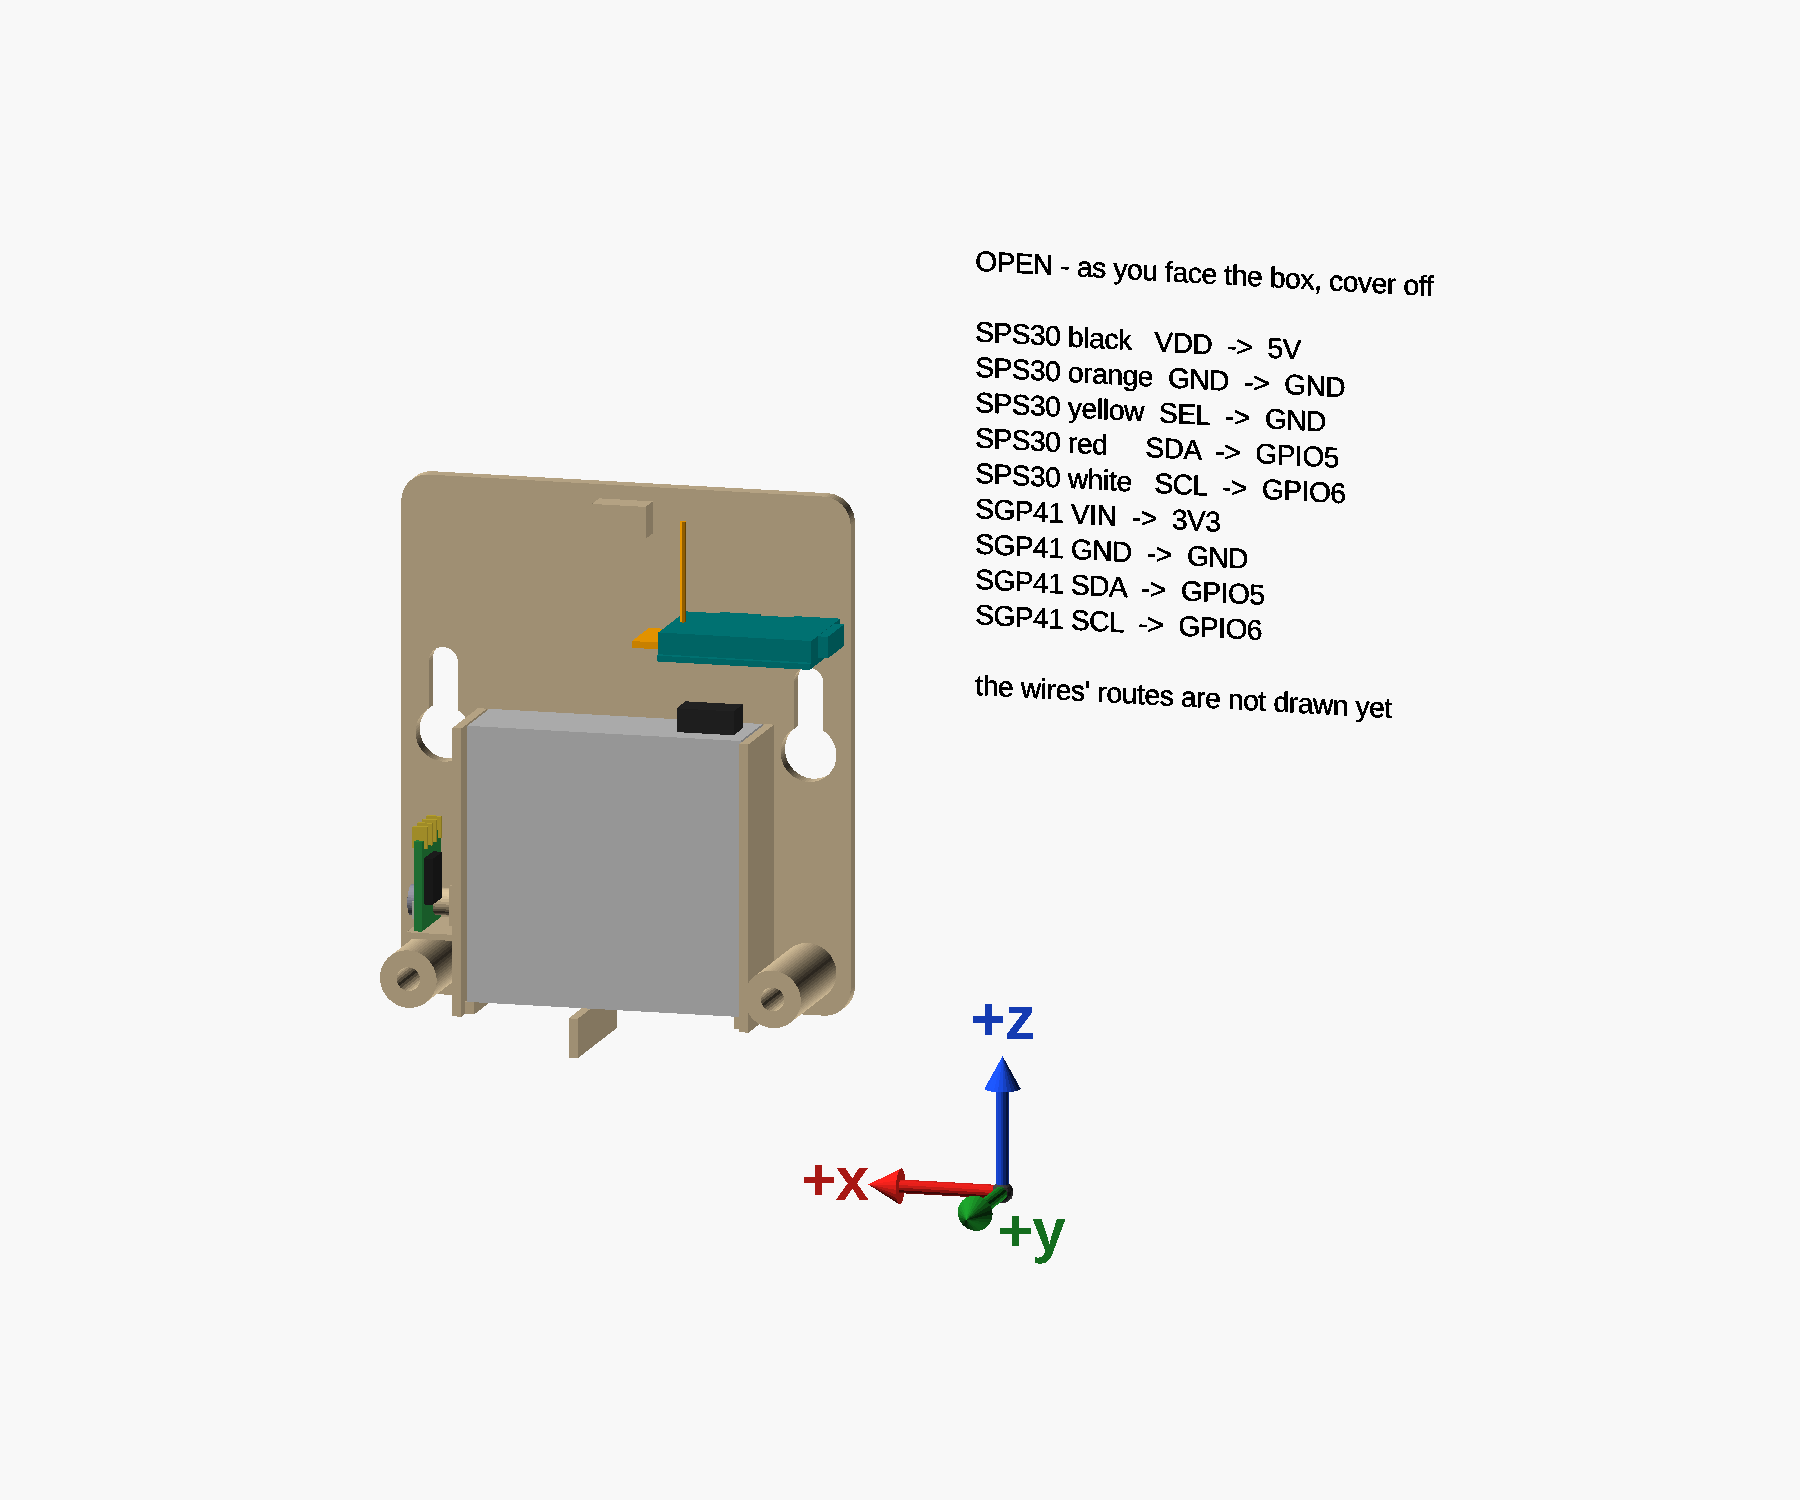
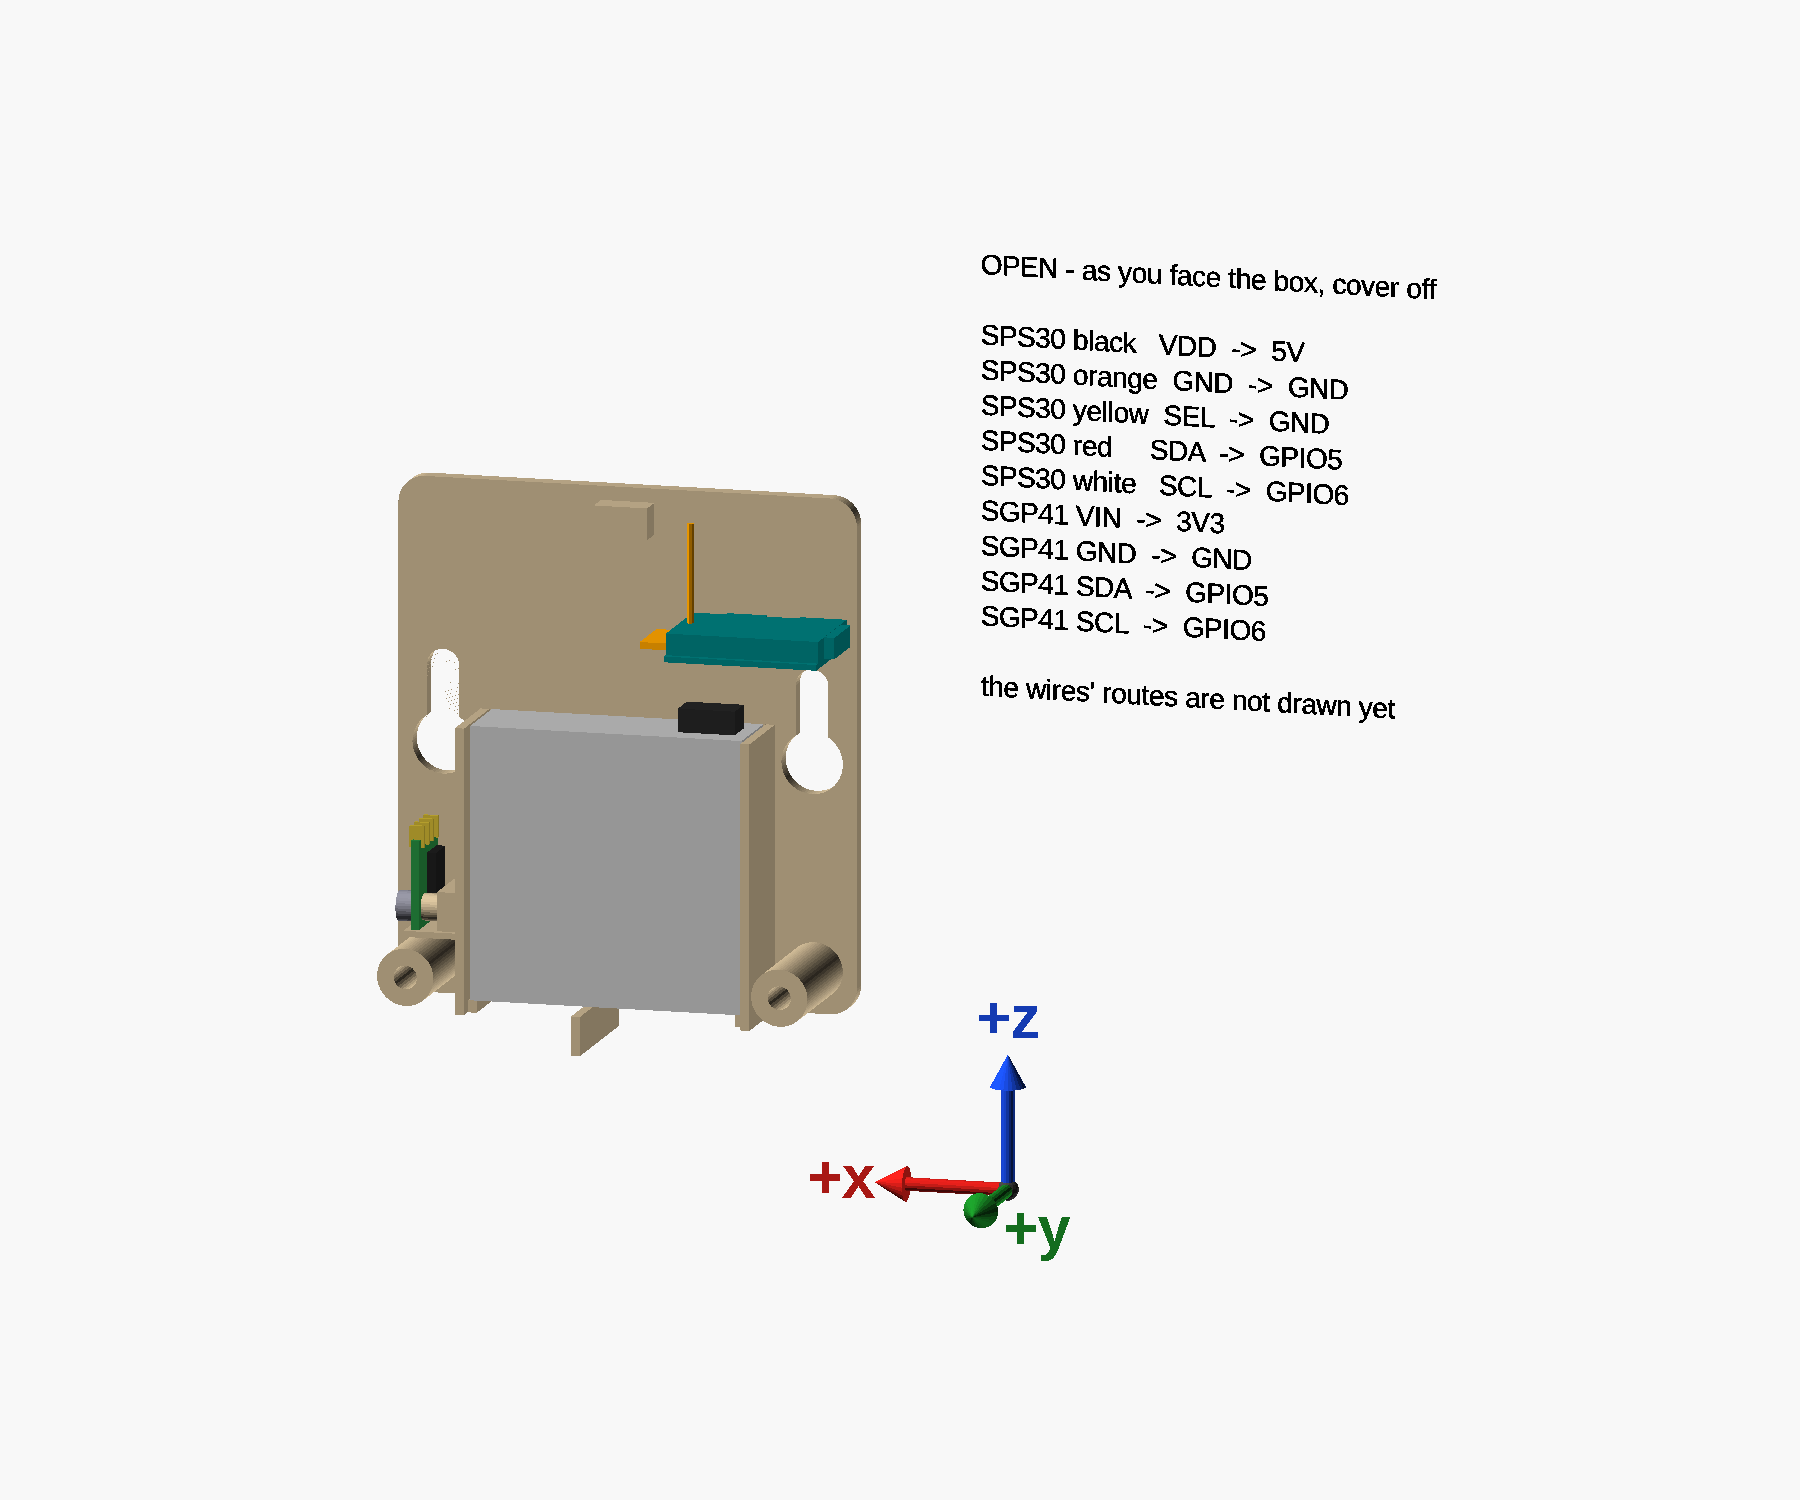
fix(models): print-chamber box - the SGP41 the right way round
The box held the GY-SGP41 mirrored. Photo 2 of 2 Oct 2026 shows the
module from its sensor side with its pins up: the mounting hole at the
bottom right, the sensor at the bottom left. The photo is not
mirrored - the SuperMini's labels in the same picture read the right
way round. Standing on edge with its sensor towards the side wall's
vents and its pins up, seen from outside that wall, +Y is on the
right, so the hole is by the module's FRONT long edge. The model had
it by the plate: bottom left, the mirror image of any real module.

gy_hole_right (true, from the photo) now records which way round the
module is, and the hole's edge follows from it. The whole box is
mirrored when the outlet is at the left, and a real module cannot be,
so the canonical drawing takes the module's mirror image then and it
comes out right after the mirror. Seen from outside the side wall, the
hole is now bottom right in both mirror states; before, only in the
mirrored one.

The block, standoff, pilot, the bare patch carved from the underside's
parts, and the screw's head all follow the hole forward; the block now
reaches from the plate out past the standoff by its front edge. The
open and exploded pictures draw the sensor by the back edge and the
underside's parts clear of the hole.

The pictures in docs/ are re-rendered for this and for the box's new
68.7 mm width. Staged tree: the eight gates pass in both mirror
states, every control fires (the block control now 39.9 mm3, the
[…]

diff --git a/models/print-chamber-box/docs/parameters.md b/models/print-chamber-box/docs/parameters.md
@@ -67,6 +67,7 @@ Drawn by [`board-measure.scad`](../board-measure.scad), the boards as they lie o
 | `gy_hole_bare_d` | **5.2** (photo) | the bare patch round the mounting hole on the underside: the nearest parts beside and above the hole are about 2.6 mm from its centre |
 | `gy_hole_d` | **3.13** | the GY-SGP41's mounting hole, across |
 | `gy_hole_far`, `gy_hole_side` | **1.32**, **1.25** + half the hole | from the hole's edge to the module's far end, and to the nearer long edge (the one away from the sensor). The file adds half the diameter to put the centre at 2.885 and 2.815 |
+| `gy_hole_right` | **true** (photo) | which way round the module is: seen from its sensor side with its pins up, the hole is at the bottom right and the sensor at the bottom left — the GY-SGP41 in [the figure](board-measure.png). From photo 2, which is not mirrored: the SuperMini's labels in the same photo read the right way round. Standing on edge with its sensor towards the side wall and its pins up, the module's hole is therefore by its front edge, away from the plate |
 
 ## Bounds, not measurements
 
